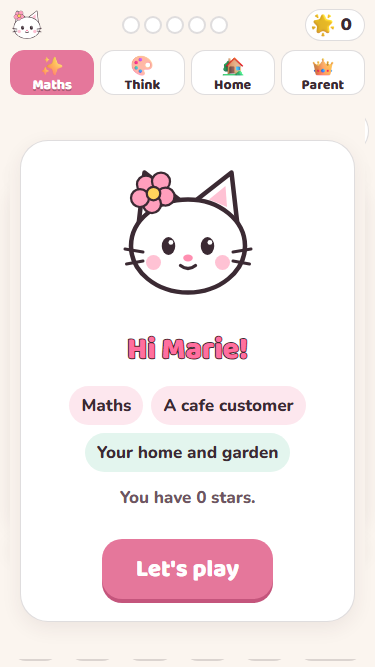
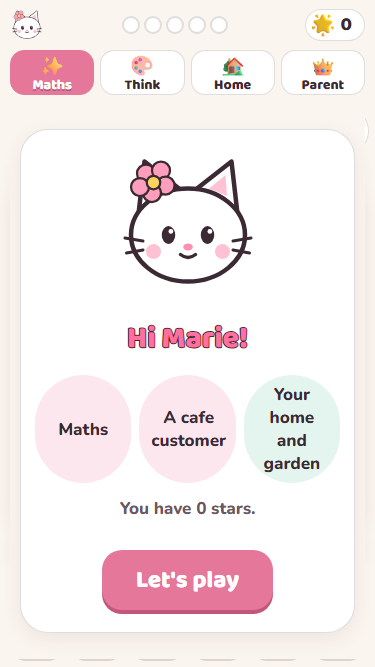
Equal widths for every side-by-side button (keypad, parent code, yes/no); stricter check over all screens
Claude-Session: https://claude.ai/code/session_01T9KPNPMjnDcrQKtsaSJi3w

diff --git a/modules/theme.js b/modules/theme.js
@@ -78,6 +78,12 @@ body.who-kennedy .tp-score { visibility: hidden; }
 .kd-keys { grid-template-columns: repeat(6, minmax(0, 1fr)) !important; min-width: min(380px, 100%); }
 .ch-row, .bg-row { display: grid !important; grid-auto-flow: column; grid-auto-columns: minmax(0, 1fr); gap: 8px; }
 .ch-row > *, .bg-row > * { width: 100%; min-width: 0; }
+.pad { grid-template-columns: repeat(6, minmax(0, 1fr)) !important; }
+.pad > button { width: auto !important; min-width: 0 !important; }
+.pin .row { display: grid !important; grid-template-columns: repeat(2, minmax(0, 1fr)); gap: 12px; width: min(360px, 100%); }
+.pin .row > button { width: 100%; padding-inline: 8px; }
+.set:has(> button + button) > button, .set:has(> button + span + button) > button { flex: 1 1 0; min-width: 0; }
+.pin input { border: 1px solid var(--line) !important; box-shadow: var(--shadow); border-radius: 16px !important; }
 `;
   const st = document.createElement("style"); st.id = "theme-css"; st.textContent = CSS; document.head.appendChild(st);
 

diff --git a/src/modules/theme.js b/src/modules/theme.js
@@ -78,6 +78,12 @@ body.who-kennedy .tp-score { visibility: hidden; }
 .kd-keys { grid-template-columns: repeat(6, minmax(0, 1fr)) !important; min-width: min(380px, 100%); }
 .ch-row, .bg-row { display: grid !important; grid-auto-flow: column; grid-auto-columns: minmax(0, 1fr); gap: 8px; }
 .ch-row > *, .bg-row > * { width: 100%; min-width: 0; }
+.pad { grid-template-columns: repeat(6, minmax(0, 1fr)) !important; }
+.pad > button { width: auto !important; min-width: 0 !important; }
+.pin .row { display: grid !important; grid-template-columns: repeat(2, minmax(0, 1fr)); gap: 12px; width: min(360px, 100%); }
+.pin .row > button { width: 100%; padding-inline: 8px; }
+.set:has(> button + button) > button, .set:has(> button + span + button) > button { flex: 1 1 0; min-width: 0; }
+.pin input { border: 1px solid var(--line) !important; box-shadow: var(--shadow); border-radius: 16px !important; }
 `;
   const st = document.createElement("style"); st.id = "theme-css"; st.textContent = CSS; document.head.appendChild(st);
 

diff --git a/tests/equal_buttons_test.py b/tests/equal_buttons_test.py
@@ -1,14 +1,20 @@
-"""Silent check: in every row of buttons, buttons on the same line have the same width (2 px tolerance). One line per screen."""
+"""Silent check: ANY two or more buttons that sit side by side (same parent, same line) must have the same width
+(2 px tolerance). Walks every screen a child or parent can reach. One line per screen."""
 import sys
 from playwright.sync_api import sync_playwright
 sys.path.insert(0, __file__.rsplit("\\", 1)[0].rsplit("/", 1)[0])
 from autoplay import STUB, STEP
 URL = sys.argv[1]; res = []
-JS = """() => { const rows = document.querySelectorAll('.jbtns, .mw-tabs, .mw-acts, .welcome .plan, .ch-row, .bg-row, .tabs, .kd-keys, .tp-choices, .prof-list');
-  const bad = []; rows.forEach(r => { if (!r.offsetParent) return; const kids = [...r.children].filter(c => c.offsetParent && c.getBoundingClientRect().width > 0);
-    const tops = {}; kids.forEach(c => { const t = Math.round(c.getBoundingClientRect().top / 4); (tops[t] = tops[t] || []).push(Math.round(c.getBoundingClientRect().width)); });
-    Object.values(tops).forEach(ws => { if (ws.length > 1 && Math.max(...ws) - Math.min(...ws) > 2) bad.push(r.className + ': ' + ws.join(',')); }); });
-  return bad; }"""
+JS = """() => { const bad = new Set();
+  const vis = el => { const r = el.getBoundingClientRect(); const cs = getComputedStyle(el); return r.width > 0 && r.height > 0 && cs.visibility !== 'hidden' && cs.display !== 'none' && el.offsetParent !== null; };
+  const isBtn = el => el.tagName === 'BUTTON' || el.classList.contains('main-btn') || el.getAttribute('role') === 'button';
+  document.querySelectorAll('*').forEach(par => {
+    const kids = [...par.children].filter(c => isBtn(c) && vis(c)); if (kids.length < 2) return;
+    // keypads and grids of tiles are fine as long as each line is even; group by line
+    const lines = {}; kids.forEach(c => { const t = Math.round(c.getBoundingClientRect().top / 6); (lines[t] = lines[t] || []).push(c); });
+    Object.values(lines).forEach(row => { if (row.length < 2) return; const ws = row.map(c => Math.round(c.getBoundingClientRect().width));
+      if (Math.max(...ws) - Math.min(...ws) > 2) bad.add((par.id ? '#' + par.id : par.className || par.tagName) + ' [' + row.map(c => (c.textContent || c.getAttribute('aria-label') || '').trim().slice(0, 12)).join(' | ') + '] ' + ws.join(',')); }); });
+  return [...bad]; }"""
 def ok(name, cond, extra=""): res.append(bool(cond)); print(("PASS " if cond else "FAIL ") + name + (" | " + str(extra) if extra != "" and not cond else ""))
 with sync_playwright() as p:
     b = p.chromium.launch(args=["--mute-audio"])
@@ -17,23 +23,42 @@ with sync_playwright() as p:
         pg.on("pageerror", lambda e: errs.append(str(e)))
         pg.goto(URL); pg.wait_for_timeout(900)
         def chk(tag):
-            bad = pg.evaluate(JS); ok(f"{vw} {tag}: equal buttons", not bad, bad[:3])
+            bad = pg.evaluate(JS); ok(f"{vw} {tag}", not bad, bad[:4])
+        ev = lambda js: (pg.evaluate(js), pg.wait_for_timeout(350))
         chk("profiles")
-        pg.evaluate("()=>document.querySelector('[data-p=\"marie\"]').click()"); pg.wait_for_timeout(300); chk("welcome")
-        pg.evaluate("()=>document.getElementById('goBtn').click()"); pg.wait_for_timeout(1000)
+        ev("()=>document.querySelector('[data-p=\"parent\"]').click()"); chk("parent code")
+        pg.fill("#pinIn", "0913"); pg.keyboard.press("Enter"); pg.wait_for_timeout(300); chk("parent: whose progress")
+        ev("()=>document.querySelector('[data-c=\"marie\"]').click()"); chk("parent area")
+        ev("()=>document.getElementById('pPlace').click()"); chk("parent: re-run check question")
+        ev("()=>document.getElementById('pPlaceNo').click()"); ev("()=>document.getElementById('resetBtn').click()"); chk("parent: erase question")
+        ev("()=>document.getElementById('resetNo').click()")
+        ev("()=>{const k=document.querySelector('#grown [data-child]'); if(k) k.click();}"); chk("parent area Kennedy")
+        ev("()=>startAs('demo')"); chk("demo welcome")
+        ev("()=>startAs('marie')"); chk("Marie welcome")
+        ev("()=>document.getElementById('goBtn').click()"); pg.wait_for_timeout(700)
         for i in range(6): pg.evaluate(STEP); pg.wait_for_timeout(1700)
         chk("Marie maths")
-        pg.evaluate("()=>{Mission.pause(); P.stars=50; P.pet={id:'cat',name:'Snowy',toys:[],wear:'',pats:0,meals:0}; const k=KidsEngine.dayKey(Date.now()); P.days[k].sets=3; save(); showView('home');}"); pg.wait_for_timeout(500); chk("Marie house")
-        pg.evaluate("()=>document.querySelector('[data-part=\"pet\"]').click()"); pg.wait_for_timeout(300); chk("Marie pet")
+        for i in range(10):
+            if pg.evaluate("()=>!!document.getElementById('cafeGo')"): break
+            pg.evaluate(STEP); pg.wait_for_timeout(1700)
+        chk("Marie cafe moment")
+        ev("()=>{Mission.pause(); P.stars=60; P.pet={id:'cat',name:'Snowy',toys:['crown'],wear:'',pats:0,meals:0}; const k=KidsEngine.dayKey(Date.now()); P.days[k].sets=3; save(); showView('home');}"); chk("Marie house")
+        ev("()=>document.querySelector('[data-part=\"garden\"]').click()"); chk("Marie garden")
+        ev("()=>document.querySelector('[data-part=\"pet\"]').click()"); chk("Marie pet")
         for g in ["chess", "battleship", "codebreaker", "hanoi", "nim"]:
-            pg.evaluate("()=>showView('think')"); pg.wait_for_timeout(300)
-            pg.evaluate(f"()=>document.querySelector('[data-game=\"{g}\"]').click()"); pg.wait_for_timeout(500); chk(g)
-            pg.evaluate("()=>ThinkTab.stop()"); pg.wait_for_timeout(200)
-        pg.evaluate("()=>{showView('sums'); startAs('kennedy');}"); pg.wait_for_timeout(300)
-        pg.evaluate("()=>document.getElementById('goBtn').click()"); pg.wait_for_timeout(1000)
+            ev("()=>showView('think')"); ev(f"()=>document.querySelector('[data-game=\"{g}\"]').click()"); chk(g)
+            ev("()=>{const b=[...document.querySelectorAll('#viewThink .think-game button')].find(x=>/lesson|play|start/i.test(x.textContent)); if(b) b.click();}"); chk(g + " inside")
+            ev("()=>ThinkTab.stop()")
+        ev("()=>{showView('sums'); startAs('kennedy');}"); chk("Kennedy welcome")
+        ev("()=>document.getElementById('goBtn').click()"); pg.wait_for_timeout(700)
         for i in range(6): pg.evaluate(STEP); pg.wait_for_timeout(1700)
         chk("Kennedy maths")
-        pg.evaluate("()=>{Mission.pause(); const c=document.getElementById('cover'); c.hidden=false; KnightWorld.defence(c,1,()=>{})}"); pg.wait_for_timeout(400); chk("castle defence")
+        for i in range(10):
+            if pg.evaluate("()=>!!document.getElementById('winNext')"): break
+            pg.evaluate(STEP); pg.wait_for_timeout(1700)
+        chk("Kennedy bad guy sent home")
+        ev("()=>{Mission.pause(); const c=document.getElementById('cover'); c.hidden=false; KnightWorld.defence(c,1,()=>{})}"); chk("castle defence")
+        ev("()=>{document.getElementById('cover').hidden=true; P.coins=200; save(); showView('home');}"); chk("castle")
         ok(f"{vw} no page errors", not errs, errs[:3])
         pg.close()
     b.close()
